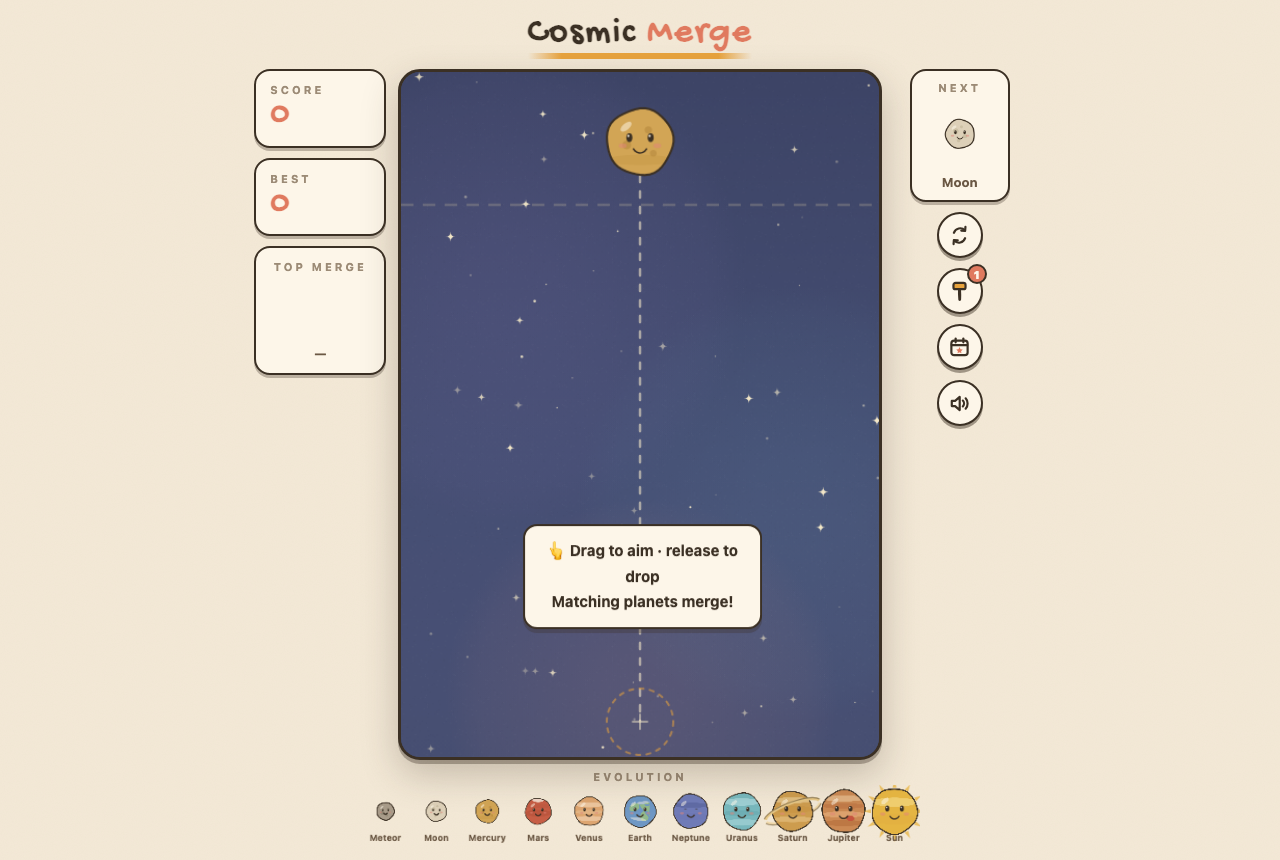
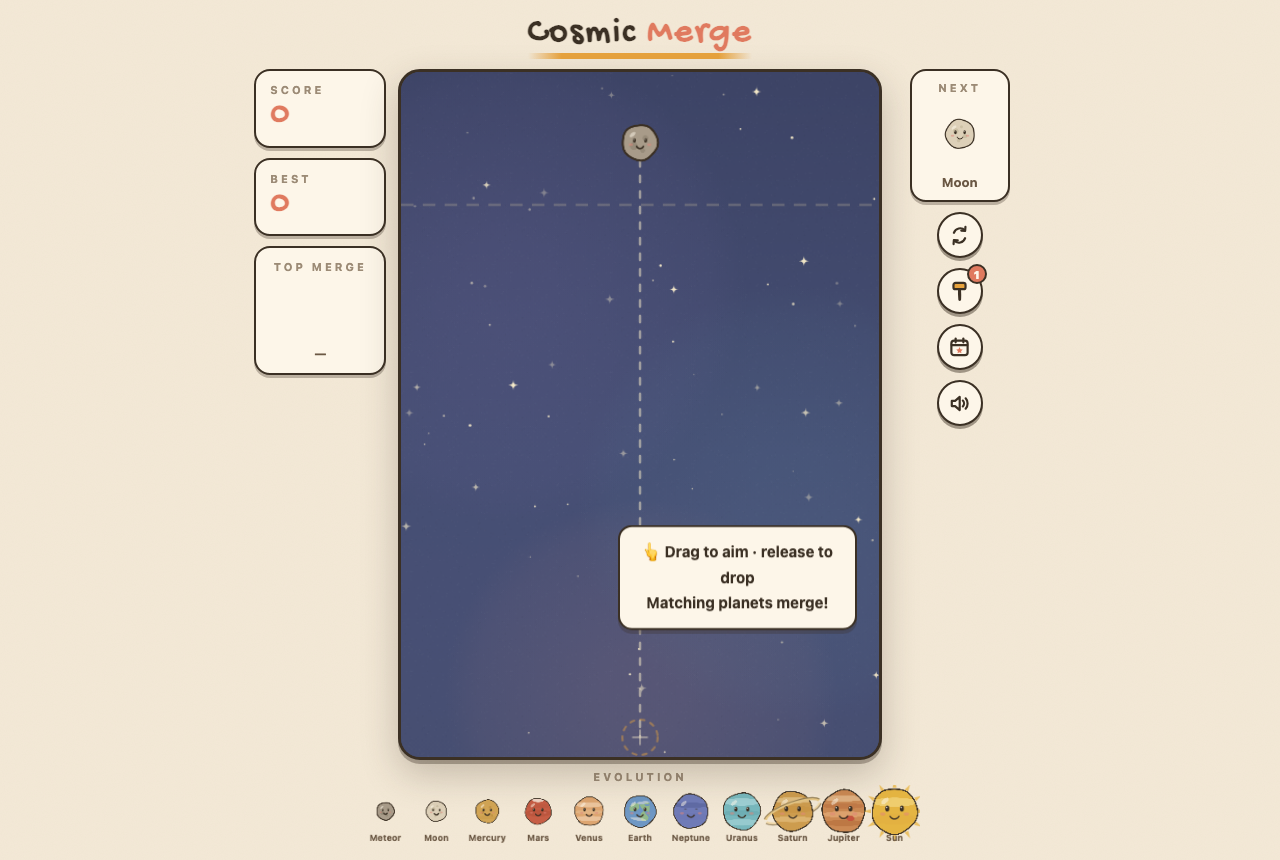
ci: GitHub Pages deploy (relative base, base-aware SW + manifest)
- Add GitHub Actions workflow building dist/ and publishing via
  actions/deploy-pages (runs on push to main).
- vite.config.ts: base './' so assets resolve under the Pages subpath
  (/cosmic-merge/) while local dev/tooling stays at root.
- Service worker registered via import.meta.env.BASE_URL (was hardcoded
  /sw.js) so it loads under the subpath.
- manifest icons made relative (were /favicon.svg, /icon-512.png) and
  name trimmed to "Cosmic Merge".
- og:image set to the absolute Pages URL for social previews.

Verified: production build (vite preview) runs with no JS errors;
built index.html emits ./-relative asset paths.

Changed region(s): [[0.4062, 0.6047, 0.6875, 0.7558], [0.4688, 0.1209, 0.5312, 0.2116], [0.4688, 0.8465, 0.5312, 0.8767]]

diff --git a/index.html b/index.html
@@ -10,7 +10,7 @@
     <meta property="og:title" content="Cosmic Merge" />
     <meta property="og:description" content="Suika-style physics merge game with cute chibi planets. Merge from Meteor to the Sun!" />
     <meta property="og:type" content="website" />
-    <meta property="og:image" content="/og-image.png" />
+    <meta property="og:image" content="https://jeffrey5304lab.github.io/cosmic-merge/og-image.png" />
     <meta name="twitter:card" content="summary_large_image" />
     <link rel="manifest" href="/manifest.webmanifest" />
     <link rel="apple-touch-icon" href="/icon-512.png" />

diff --git a/src/main.ts b/src/main.ts
@@ -411,7 +411,7 @@ window.addEventListener('keydown', () => startMusic(), { once: true })
 /* ── PWA 離線（只在正式版註冊，避免 dev 快取干擾） ── */
 if (import.meta.env.PROD && 'serviceWorker' in navigator) {
   window.addEventListener('load', () => {
-    navigator.serviceWorker.register('/sw.js').catch(() => {
+    navigator.serviceWorker.register(`${import.meta.env.BASE_URL}sw.js`).catch(() => {
       /* SW 註冊失敗不影響遊戲 */
     })
   })

diff --git a/vite.config.ts b/vite.config.ts
@@ -1,0 +1,7 @@
+import { defineConfig } from 'vite'
+
+// 相對 base：本機 dev 仍在根路徑，build 後可放在任意子路徑
+// （GitHub Pages 專案站 /cosmic-merge/ 也能正確載入資源）。
+export default defineConfig({
+  base: './',
+})
